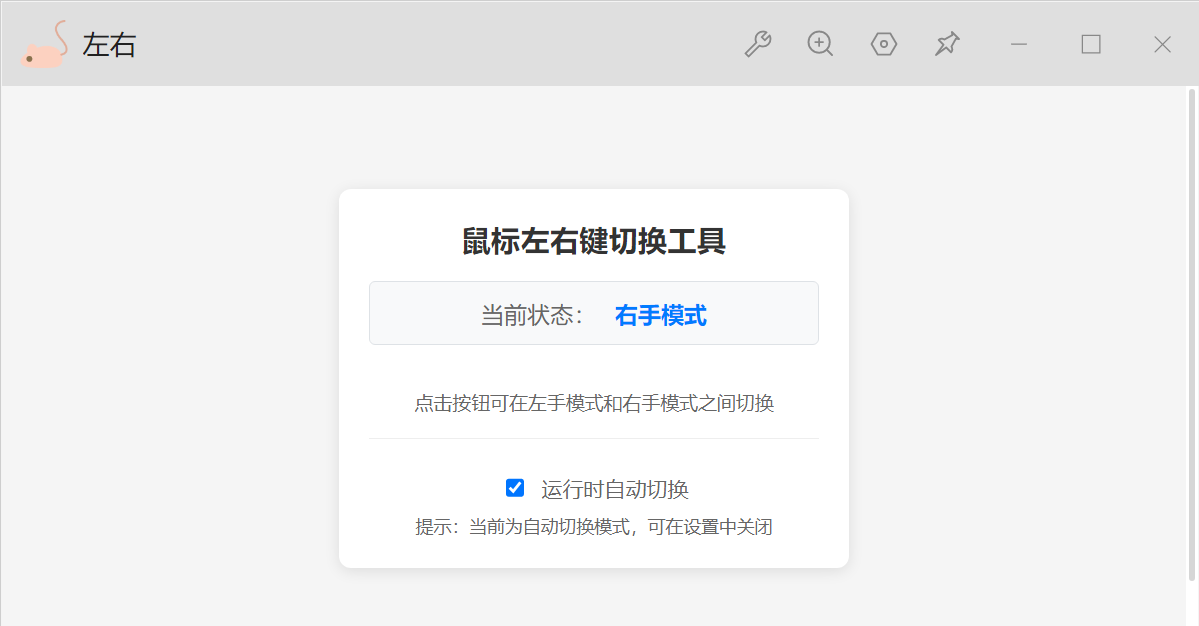
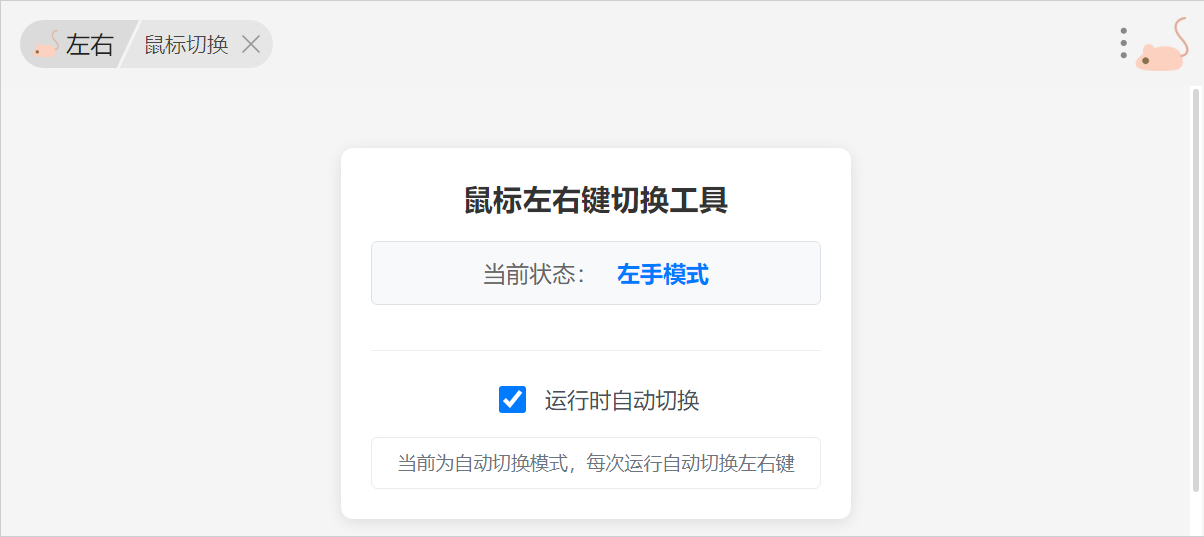
优化提示说明

diff --git a/mouse_switch/index.html b/mouse_switch/index.html
@@ -68,28 +68,42 @@
         .tip {
             color: #666;
             font-size: 0.9em;
-            margin: 10px 0;
+            margin: 10px 0 5px 0;
         }
         .config-section {
-            margin-top: 15px;
-            padding-top: 15px;
+            margin-top: 5px;
+            padding-top: 10px;
             border-top: 1px solid #eee;
         }
         .config-item {
             display: flex;
             align-items: center;
             justify-content: center;
-            margin: 8px 0;
+            margin: 5px 0;
+            padding: 5px 0;
+        }
+        .config-item input[type="checkbox"] {
+            width: 18px;
+            height: 18px;
+            cursor: pointer;
+            accent-color: #007bff;
         }
         .config-item label {
-            margin-left: 8px;
-            color: #666;
+            margin-left: 10px;
+            color: #495057;
             cursor: pointer;
+            font-size: 1.05em;
+            font-weight: 500;
+            user-select: none;
         }
         #configTip {
-            color: #666;
-            font-size: 0.85em;
+            color: #6c757d;
+            font-size: 0.9em;
             margin: 8px 0 0 0;
+            padding: 8px;
+            background-color: #fff;
+            border-radius: 4px;
+            border: 1px solid #e9ecef;
         }
     </style>
 </head>
@@ -103,14 +117,14 @@
         <div class="button-container">
             <button id="switchButton" onclick="switchMouseButtons()">切换鼠标按键</button>
         </div>
-        <p class="tip">点击按钮可在左手模式和右手模式之间切换</p>
+        <p class="tip" id="manualTip">点击按钮可在左手模式和右手模式之间切换</p>
 
         <div class="config-section">
             <div class="config-item">
                 <input type="checkbox" id="autoSwitch" onchange="updateConfig()">
                 <label for="autoSwitch">运行时自动切换</label>
             </div>
-            <p id="configTip">提示：可在设置中开启"自动切换"功能</p>
+            <p id="configTip">提示：勾选开启"自动切换"模式</p>
         </div>
     </div>
 
@@ -139,16 +153,20 @@
 
             // 更新界面
             const switchButton = document.getElementById('switchButton');
+            const manualTip = document.getElementById('manualTip');
             if (switchButton) {
                 switchButton.style.display = autoSwitch ? 'none' : 'block';
+            }
+            if (manualTip) {
+                manualTip.style.display = autoSwitch ? 'none' : 'block';
             }
 
             // 更新提示
             const configTip = document.getElementById('configTip');
             if (configTip) {
                 configTip.textContent = autoSwitch ?
-                    '提示：当前为自动切换模式，可在设置中关闭' :
-                    '提示：可在设置中开启"自动切换"功能';
+                    '当前为自动切换模式，每次运行自动切换左右键' :
+                    '当前为手动切换模式，可勾选开启"自动切换"模式';
             }
         }
     </script>

diff --git a/mouse_switch/preload.js b/mouse_switch/preload.js
@@ -155,16 +155,20 @@ window.exports = {
 
         // 更新按钮显示状态
         const switchButton = document.getElementById('switchButton');
+        const manualTip = document.getElementById('manualTip');
         if (switchButton) {
           switchButton.style.display = autoSwitch ? 'none' : 'block';
+        }
+        if (manualTip) {
+          manualTip.style.display = autoSwitch ? 'none' : 'block';
         }
 
         // 更新配置提示显示
         const configTip = document.getElementById('configTip');
         if (configTip) {
           configTip.textContent = autoSwitch ?
-            '提示：当前为自动切换模式，可在设置中关闭' :
-            '提示：可在设置中开启"自动切换"功能';
+            '已勾选自动切换模式，每次运行自动切换左右键' :
+            '当前为手动切换模式，可勾选开启"自动切换"模式';
         }
       },
       switchMouse: switchMouseButtons
